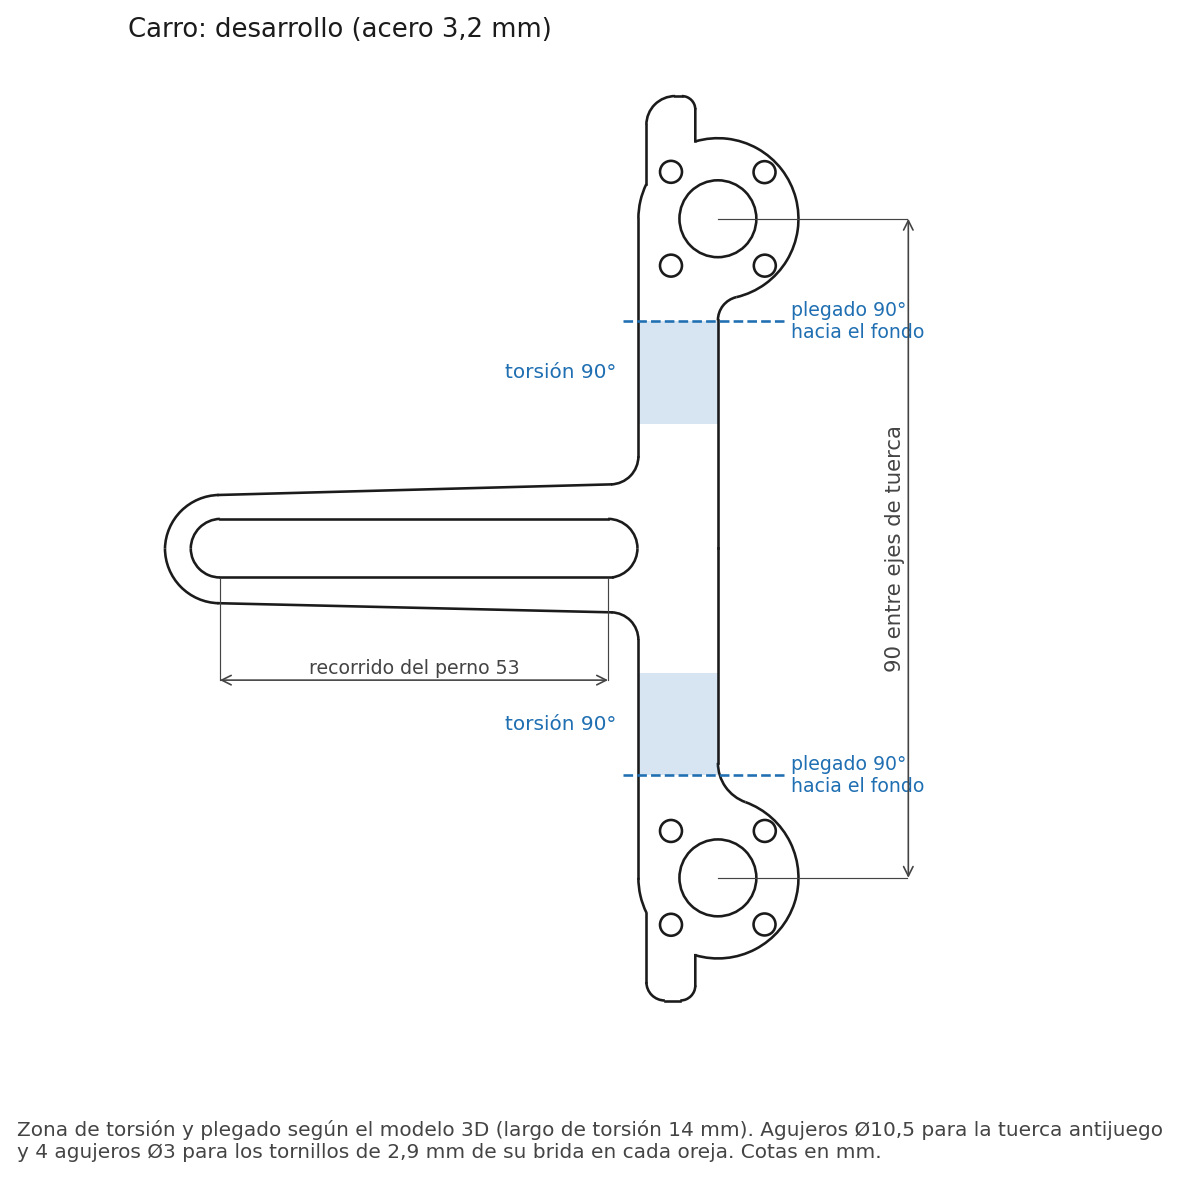
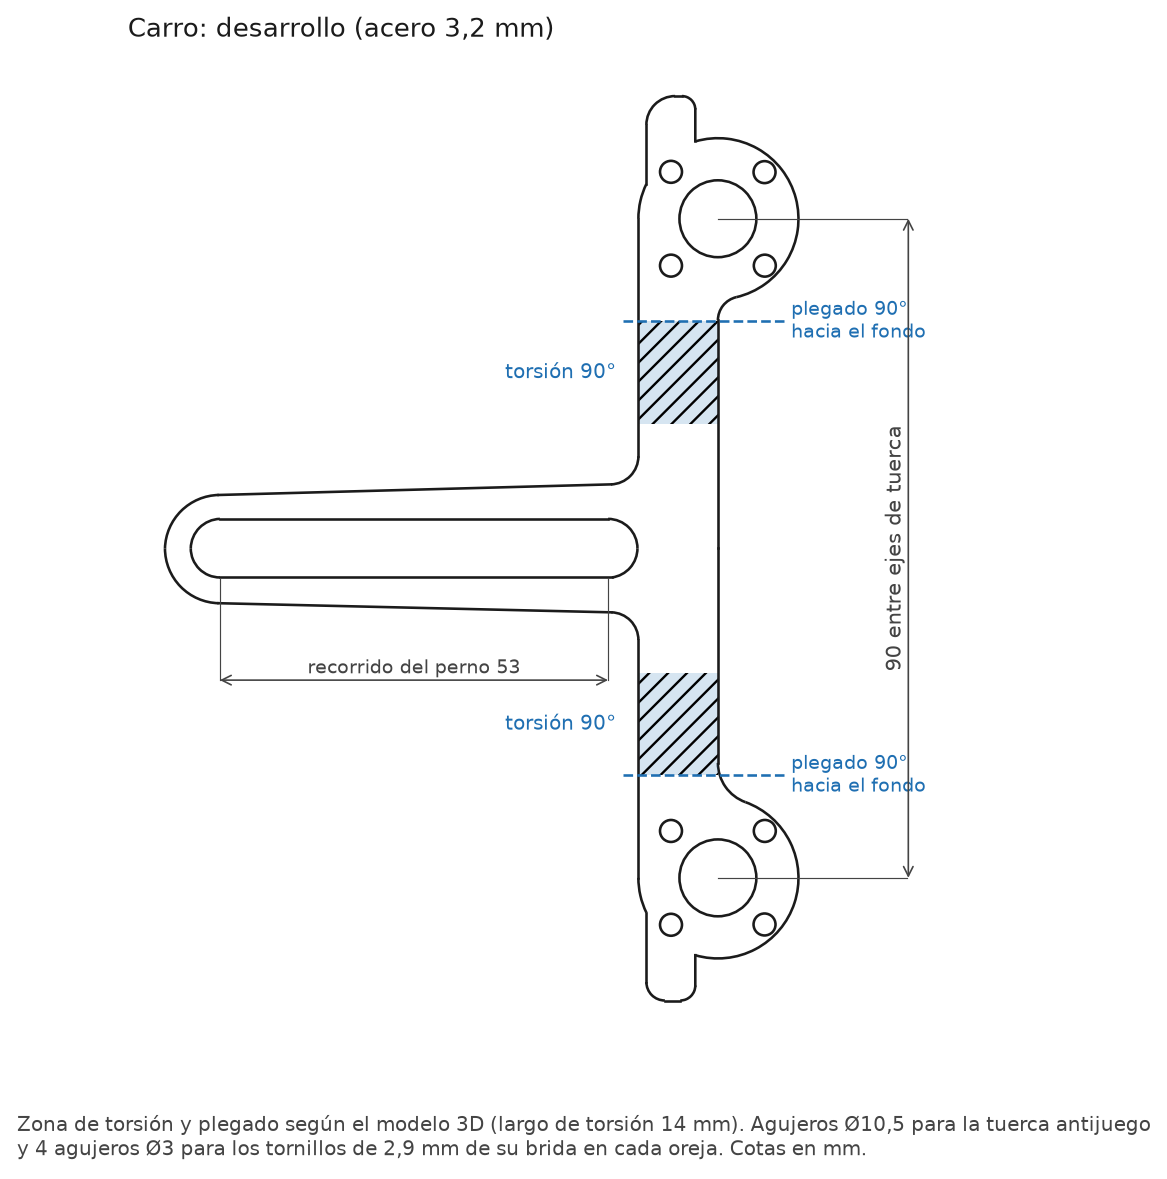
Acople en el agujero del techo, deflector con paño de 40 y perfiles L de 462

diff --git a/scripts/render_desarrollos.py b/scripts/render_desarrollos.py
@@ -83,7 +83,7 @@ def finish(fig, ax, name, title, notes):
 
 
 def deflector():
-    width, tab, segments = 494.0, 15.0, (115.0, 60.0, 50.0)  # cámara de 464 + 2 lengüetas
+    width, tab, segments = 494.0, 15.0, (115.0, 60.0, 40.0)  # cámara de 464 + 2 lengüetas
     length = sum(segments)
     fig, ax = plt.subplots(figsize=(8.5, 5.2))
     draw(ax, CAD / 'Deflector_Aire.dxf')
@@ -95,7 +95,7 @@ def deflector():
     for seg in segments:
         dim(ax, (width, y), (width, y + seg), -22, '%g' % seg)
         y += seg
-    dim(ax, (0, 0), (0, length), 22, '225')
+    dim(ax, (0, 0), (0, length), 22, '%g' % length)
     for y, label in ((115, 'pliegue 50°'), (175, 'pliegue 20°')):
         ax.text(width / 2, y + 5, label, ha='center', va='bottom', fontsize=9, color=FOLD)
     ax.text(tab / 2, length / 2, 'lengüeta', rotation=90, ha='center', va='center', fontsize=7.5, color=FOLD)

diff --git a/docs/montaje-mecanico.md b/docs/montaje-mecanico.md
@@ -11,10 +11,10 @@ Las cotas de esta página se toman con el interior de la cámara como referencia
 Armar el cuerpo con las piezas de la [lista de corte](compra-y-corte.md#mueble) (Figura 2). Los laterales van entre las tapas; el techo y el frente del cajón, entre los laterales. Unir las placas con tarugos de 8 × 40 mm, salvo la tapa superior.
 
 1. **Laterales.** Unir los dos laterales sobre la tapa inferior, al ras de sus cantos.
-2. **Techo.** Colocarlo entre los laterales, con su cara superior a 112 mm del borde superior de los laterales: la cámara queda de 974 mm de alto. Las cotas «desde el techo» de esta página y las plantillas superiores se toman desde la cara inferior de esta pieza.
+2. **Techo.** Antes de colocarlo, perforar con la plantilla del techo el agujero de Ø28 mm del motor, a 15 mm del canto del lateral del husillo y 40 mm del canto trasero, y los pases al cajón: Ø25 mm para los cables y Ø14 mm para la manguera del aspersor. Colocarlo entre los laterales, con su cara superior a 112 mm del borde superior de los laterales: la cámara queda de 974 mm de alto. Las cotas «desde el techo» de esta página y las plantillas superiores se toman desde la cara inferior de esta pieza.
 3. **Frente del cajón.** Colocarlo entre los laterales, sobre el techo y al ras del frente.
 4. **Fondo.** Atornillarlo por detrás, sobre los cantos de los laterales y de la tapa inferior. Su borde superior queda al ras de los laterales.
-5. **Tapa superior.** Apoyarla sobre los laterales, el fondo y el frente del cajón, al ras del frente y de la cara trasera del fondo. No se encola: se levanta para abrir el cajón.
+5. **Tapa superior.** Apoyarla sobre los laterales, el fondo y el frente del cajón, al ras del frente y de la cara trasera del fondo, y unirla al fondo con dos bisagras ficha de 63 mm, a 80 mm de cada costado. No se encola ni lleva tarugos: se levanta hacia atrás para abrir el cajón.
 6. **Puerta.** Montarla delante de la cámara con dos bisagras ficha de 63 mm y el cierre de tracción. Cubre desde abajo hasta el canto del techo; el frente del cajón, donde va el tablero eléctrico y de control, queda a la vista.
 7. **Terminación.** Colocar el burlete tipo D en el marco de la puerta y las cuatro patas de goma.
 
@@ -52,8 +52,9 @@ Cada cuna lleva soldados dos muñones de barra Ø8, uno en el centro de cada bra
     - El husillo va a **15 mm del lateral izquierdo** y a **40 mm del fondo**, desde **10 mm del techo** hacia abajo.
     - Anclar el soporte KP08 superior al mueble y ajustar el husillo con los prisioneros del soporte, con una llave Allen de 1,5 mm. Dejar que sobresalga hacia arriba unos 12 mm.
     - Colocar y anclar el otro soporte KP08 al mueble.
-    - Atornillar la brida del motorreductor SP 8-18, una chapa ovalada de 0,5 mm, sobre el techo. El motor queda vertical en el cajón y su eje atraviesa la brida y el techo hacia abajo, alineado con el husillo.
-    - Ajustar el acople de 8 mm al eje del motor, justo debajo del techo, y al husillo, cuidando que la separación entre los extremos de los ejes no supere 1 mm y que no queden apretados.
+    - En el banco, apretar el acople de 8 mm al eje del motorreductor SP 8-18, con 8,5 mm de eje libre entre la cara de apoyo del motor y el acople.
+    - Bajar el motor con el acople por el agujero de Ø28 mm del techo hasta apoyar la brida, una chapa ovalada de 0,5 mm, sobre el techo. El acople entra en el husillo y queda 0,5 mm sobre el KP08 superior; el extremo del eje del motor queda a 0,5 mm del husillo, sin tocarlo.
+    - Atornillar la brida al techo y apretar el prisionero de abajo del acople desde la cámara.
 
 ### Carro
 
@@ -91,8 +92,8 @@ Los finales de carrera van de plano contra el lateral, detrás del husillo, y lo
 
 El deflector se fabrica según [Compra y corte](compra-y-corte.md#deflector).
 
-1. Ubicar el paño de 50 mm vertical, paralelo al fondo, a **60 mm del fondo**.
-2. El paño de 115 mm baja 20° hacia la puerta. Su borde más bajo queda a **300 mm del piso**, justo por encima de la chapa de impacto del agua. El borde superior del paño vertical queda a 446 mm del piso.
+1. Ubicar el paño de 40 mm vertical, paralelo al fondo, a **60 mm del fondo**.
+2. El paño de 115 mm baja 20° hacia la puerta. Su borde más bajo queda a **300 mm del piso**, justo por encima de la chapa de impacto del agua. El borde superior del paño vertical queda a 436 mm del piso.
 3. Fijar las pestañas laterales a las paredes.
 4. Girar las bandejas en todo su recorrido y verificar que la inferior no toque el deflector.
 
@@ -127,4 +128,4 @@ La resistencia va debajo de la budinera, apretada contra su fondo por la contrap
 
 1. **Chapa de impacto.** Colocarla en la punta de la budinera del lado del husillo, con el respaldo hacia esa punta y las alas hacia el centro. Su borde superior queda a 298 mm del piso, debajo del deflector. Fijarla a la budinera con tornillos autoperforantes de 4,2 × 13 mm o con remaches pop.
 2. **Aspersor.** Fijar la ménsula a la carcasa y montar la boquilla de 6 mm, apuntando a la chapa de impacto.
-3. **Bomba y electroválvula.** Conectarlas entre sí y montarlas dentro de una caja estanca en el cajón superior, con un desagote en el punto más bajo para las pérdidas ocasionales. Unirlas a la boquilla con manguera de 10 mm y el acople rápido de 10 a 6 mm.
+3. **Bomba y electroválvula.** Conectarlas entre sí y montarlas dentro de una caja estanca en el cajón superior, con un desagote en el punto más bajo para las pérdidas ocasionales, que sale por el pase de Ø20 mm del fondo. Unirlas a la boquilla con manguera de 10 mm, que baja a la cámara por el pase de Ø14 mm del techo, y el acople rápido de 10 a 6 mm.

diff --git a/docs/compra-y-corte.md b/docs/compra-y-corte.md
@@ -31,13 +31,13 @@ Las medidas generales del mueble (exterior, cámara y cajón) están en [Dimensi
 
 | Pieza | Cantidad | Material | Medida de corte (mm) | Ver |
 |---|---|---|---|---|
-| Deflector | 1 | Aluminio 0,5 mm | 494 × 225 | [Deflector](#deflector) |
+| Deflector | 1 | Aluminio 0,5 mm | 494 × 215 | [Deflector](#deflector) |
 | Contraplaca de la resistencia | 1 | Acero 1,5 mm | 240 × 156,7 | [Contraplaca](#contraplaca) |
 | Chapa de impacto del agua | 1 | Aluminio 2 mm | 435 × 275 | [Chapa de impacto](#chapa-de-impacto) |
 | Carro del husillo | 1 | Acero 3,2 mm | 74,6 × 123,5, según el [desarrollo](cad/carro_portatuercas_corredera-Body.dxf) | [Carro](#carro) |
 | Chapa soporte del ventilador | 1 | Chapa 0,5 mm | 494 × 227: 464 de ancho y pestañas de 15 plegadas hacia arriba | — |
 | Soportes de la bandeja nacedora | 2 | Perfil L 20 × 20 × 3,2 | 420 | [Fuente de calor](montaje-mecanico.md#fuente-de-calor) |
-| Perfiles L de la budinera | 2 | Perfil L 20 × 20 × 2 | 464 | [Fuente de calor](montaje-mecanico.md#fuente-de-calor) |
+| Perfiles L de la budinera | 2 | Perfil L 20 × 20 × 2 | 462: 1 de juego contra cada lateral, para sacar la budinera | [Fuente de calor](montaje-mecanico.md#fuente-de-calor) |
 | Muñones de las cunas | 6 | Barra de acero Ø8 | 3 de 22 (lado opuesto) y 3 de 38 (lado del husillo) | [Bandejas](montaje-mecanico.md#bandejas) |
 | Varilla de vínculo | 1 | Planchuela 20 × 3,2 | 260 | 3 agujeros Ø8 |
 
@@ -57,18 +57,18 @@ Las medidas generales del mueble (exterior, cámara y cajón) están en [Dimensi
 | Parámetro del desarrollo | Medida |
 |---|---|
 | Espesor de chapa | 0,5 mm |
-| Largo del desarrollo | 225 mm |
+| Largo del desarrollo | 215 mm |
 | Ancho útil | 464 mm |
 | Pestañas laterales | 15 mm por lado |
 | Ancho total, con pestañas | 494 mm |
-| Paños | 115 + 60 + 50 mm |
+| Paños | 115 + 60 + 40 mm |
 | Líneas de pliegue desde un extremo | 115 y 175 mm |
 | Pliegues | 50° y 20°, en el mismo sentido |
 
-1. Cortar chapa de aluminio de 0,5 mm de **494 × 225 mm**: quedarán **464 mm de ancho útil** y pestañas laterales de **15 mm por lado**. El desarrollo está en [`Deflector_Aire.dxf`](cad/Deflector_Aire.dxf).
-2. Marcar los pliegues a **115 mm** y **175 mm** desde un extremo: forman paños de 115, 60 y 50 mm.
+1. Cortar chapa de aluminio de 0,5 mm de **494 × 215 mm**: quedarán **464 mm de ancho útil** y pestañas laterales de **15 mm por lado**. El desarrollo está en [`Deflector_Aire.dxf`](cad/Deflector_Aire.dxf).
+2. Marcar los pliegues a **115 mm** y **175 mm** desde un extremo: forman paños de 115, 60 y 40 mm.
 3. Cortar en V las pestañas sobre las líneas de pliegue.
-4. Plegar **50°** en la línea de 115 mm y **20°** en la de 175 mm, en el mismo sentido. Con el paño de 115 mm inclinado 20° hacia abajo, el paño de 50 mm queda vertical.
+4. Plegar **50°** en la línea de 115 mm y **20°** en la de 175 mm, en el mismo sentido. Con el paño de 115 mm inclinado 20° hacia abajo, el paño de 40 mm queda vertical.
 5. Plegar las seis pestañas de 15 mm hacia arriba y desbarbar.
 
 ## Contraplaca

diff --git a/docs/index.md b/docs/index.md
@@ -68,7 +68,7 @@ Medidas en mm. Las posiciones se toman dentro de la cámara: ancho desde un late
 |---|---|
 | Exterior (ancho × profundidad × alto) | 500 × 536 × 1140; la profundidad incluye el fondo y la puerta |
 | Cámara (ancho × profundidad × alto) | 464 × 500 × 974 |
-| Cajón superior (ancho × profundidad × alto) | 464 × 482 × 112; aloja el tablero, el motor y la caja de bomba y electroválvula; se abre levantando la tapa superior |
+| Cajón superior (ancho × profundidad × alto) | 464 × 482 × 112; aloja el tablero, el motor y la caja de bomba y electroválvula; se abre levantando la tapa superior, con dos bisagras atrás |
 | Puerta | 500 × 1010; cubre la cámara, no el frente del cajón |
 | Placas | MDF melamina de 18 mm; lista de corte en [Compra y corte](compra-y-corte.md#mueble) |
 
@@ -91,7 +91,8 @@ Medidas en mm. Las posiciones se toman dentro de la cámara: ancho desde un late
 |---|---|
 | Husillo THSL Ø8 × 400 | 15 del lateral izquierdo y 40 del fondo, desde 10 del techo hacia abajo |
 | Motorreductor SP 8-18 | Vertical en el cajón, en línea con el husillo; brida de chapa de 0,5 atornillada sobre el techo; largo 110 más la brida |
-| Acople 8:8 | Justo debajo del techo |
+| Acople 8:8 | 0,5 sobre el KP08 superior, dentro del agujero Ø28 del techo |
+| Eje del motor | Sale 28 bajo la brida y queda a 0,5 del husillo |
 | Perno del carro (cuna superior) | 40 sobre el eje y 180 hacia el fondo |
 | Reed A (superior) | 210 del fondo y 210 del techo, inclinado 30° |
 | Reed B (inferior) | 210 del fondo y 305 del techo |
@@ -106,11 +107,11 @@ Medidas en mm. Las posiciones se toman dentro de la cámara: ancho desde un late
 |---|---|
 | Paño vertical, desde el fondo | 60 |
 | Punto más bajo, desde el piso | 300 |
-| Borde superior del paño vertical, desde el piso | 446 |
-| Paños | 115, 60 y 50 |
+| Borde superior del paño vertical, desde el piso | 436 |
+| Paños | 115, 60 y 40 |
 | Inclinación del paño principal | 20° hacia abajo |
 | Pliegues | 50° y 20° |
-| Desarrollo | 494 × 225: 464 de ancho útil y pestañas de 15 |
+| Desarrollo | 494 × 215: 464 de ancho útil y pestañas de 15 |
 
 ### Fuente de calor y humedad
 

diff --git a/docs/vista-3d.md b/docs/vista-3d.md
@@ -35,9 +35,9 @@ Vistas y archivos del modelo 3D de la v3 (`LibreIncu_Rediseno_Despiece.FCStd`).
 
 | Archivo | Contenido |
 |---|---|
-| [LibreIncu_Rediseno_Despiece.step](cad/LibreIncu_Rediseno_Despiece.step) | Conjunto completo |
+| [LibreIncu_Rediseno_Despiece.step](cad/LibreIncu_Rediseno_Despiece.step) | Conjunto completo, con el mueble y el contenido del cajón |
 | [bandejas-y-soportes.step](cad/bandejas-y-soportes.step) | Bandejas, cunas, ejes y soportes |
-| [husillo-kp08-acople.step](cad/husillo-kp08-acople.step) | Husillo, KP08 y acople |
+| [husillo-kp08-acople.step](cad/husillo-kp08-acople.step) | Husillo, KP08, acople y eje del motor |
 | [carro-y-finales-de-carrera.step](cad/carro-y-finales-de-carrera.step) | Carro plegado, finales de carrera y reed |
 | [deflector.step](cad/deflector.step) | Deflector |
 | [fuente-de-calor.step](cad/fuente-de-calor.step) | Fuente de calor y chapa de impacto |
